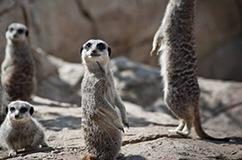
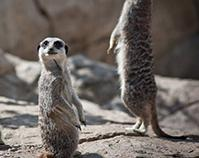
maybe outter crop

diff --git a/myWindow.py b/myWindow.py
@@ -288,7 +288,7 @@ class MyWindow(QMainWindow):
         Rect = self.changed1.Rect
         if Rect == QRect(QPoint(0,0),QtCore.QSize()):
             pass
-        elif self.isInner == True:
+        elif self.isInner == True or self.isInner == False:
             if Images[0].type!=0:
                 self.fixed1.getCropped(Rect)
                 img,pixmap = self.imageInitializer('output1.jpg',1)
@@ -306,14 +306,34 @@ class MyWindow(QMainWindow):
                 img,pixmap = self.imageInitializer('output4.jpg',4)
                 self.croppedImages[3]=img
         elif self.isInner == False:
-                if Images[0].type!=0:
-                    self.changed1.getCropped(Rect)
-                if Images[1].type!=0:
-                    pass
-                if Images[2].type!=0:
-                    pass
-                if Images[3].type!=0:
-                    pass
+            if Images[0].type!=0:
+                self.croppedImages[0].raw_data = Images[0].raw_data - self.croppedImages[0].raw_data
+                self.croppedImages[0].fft = np.fft.fft2(self.croppedImages[0].raw_data)
+                self.croppedImages[0].magnitude = np.abs(self.croppedImages[0].fft)
+                self.croppedImages[0].phase = np.angle(self.croppedImages[0].fft)
+                self.croppedImages[0].real = np.real(self.croppedImages[0].fft)
+                self.croppedImages[0].imaginary = np.imag(self.croppedImages[0].fft)    
+            if Images[1].type!=0:
+                self.croppedImages[1].raw_data = Images[1].raw_data - self.croppedImages[1].raw_data
+                self.croppedImages[1].fft = np.fft.fft2(self.croppedImages[1].raw_data)
+                self.croppedImages[1].magnitude = np.abs(self.croppedImages[1].fft)
+                self.croppedImages[1].phase = np.angle(self.croppedImages[1].fft)
+                self.croppedImages[1].real = np.real(self.croppedImages[1].fft)
+                self.croppedImages[1].imaginary = np.imag(self.croppedImages[1].fft)    
+            if Images[2].type!=0:
+                self.croppedImages[2].raw_data = Images[2].raw_data - self.croppedImages[2].raw_data
+                self.croppedImages[2].fft = np.fft.fft2(self.croppedImages[2].raw_data)
+                self.croppedImages[2].magnitude = np.abs(self.croppedImages[2].fft)
+                self.croppedImages[2].phase = np.angle(self.croppedImages[2].fft)
+                self.croppedImages[2].real = np.real(self.croppedImages[2].fft)
+                self.croppedImages[2].imaginary = np.imag(self.croppedImages[2].fft)    
+            if Images[3].type!=0:
+                self.croppedImages[3].raw_data = Images[3].raw_data - self.croppedImages[3].raw_data
+                self.croppedImages[3].fft = np.fft.fft2(self.croppedImages[3].raw_data)
+                self.croppedImages[3].magnitude = np.abs(self.croppedImages[3].fft)
+                self.croppedImages[3].phase = np.angle(self.croppedImages[3].fft)
+                self.croppedImages[3].real = np.real(self.croppedImages[3].fft)
+                self.croppedImages[3].imaginary = np.imag(self.croppedImages[3].fft)    
 
         self.setMode()
         global mode
